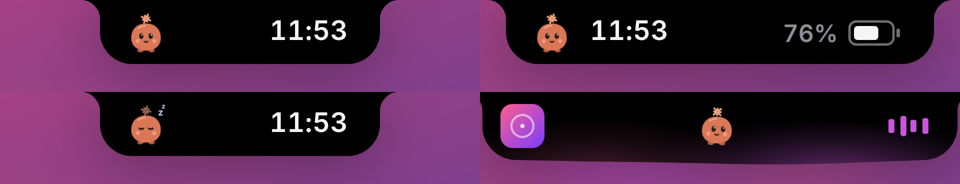
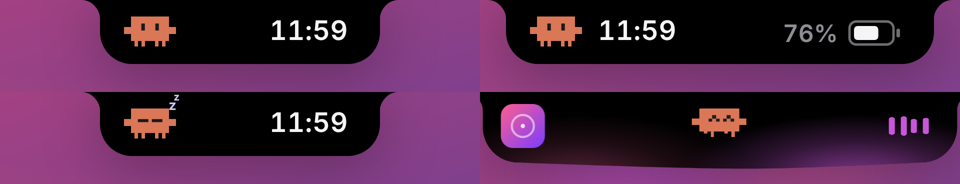
Клодик: pixel art closer to Claude Code's mascot
A terracotta block with tall eyes, little arms and four legs. While the
music plays it steps from one pair of legs to the other and shuffles
side to side instead of tilting, which pixel art does badly.

Claude-Session: https://claude.ai/code/session_014EQMbhDmCXHL3QgdrHdN9w

diff --git a/src/components/Buddy.tsx b/src/components/Buddy.tsx
@@ -1,56 +1,67 @@
-// Клодик: a tiny terracotta companion with a spark on its head (a nod to
-// Claude's starburst). It breathes and blinks on its own (CSS), looks at the
-// cursor, dances to the beat and squints happily on strong kicks (driven per
+// Клодик: a tiny pixel-art companion in the spirit of Claude Code's mascot:
+// a terracotta block with two tall eyes, little arms and four legs. It
+// breathes and blinks on its own (CSS), looks at the cursor, dances to the
+// beat, stepping its legs and squinting happily on strong kicks (driven per
 // frame by `animateBuddies`), and sleeps while you are away.
 
 import type { Liquid } from "../liquid";
 
-const RAYS = Array.from({ length: 8 }, (_, i) => (i * Math.PI) / 4);
+const C = "#d97757";
+const INK = "#1a1a1a";
 
-export function Buddy({ size = 22, sleeping = false }: { size?: number; sleeping?: boolean }) {
+/** One pixel. */
+const P = ({ x, y, w = 1, h = 1, fill = C }: { x: number; y: number; w?: number; h?: number; fill?: string }) => (
+  <rect x={x} y={y} width={w} height={h} fill={fill} />
+);
+
+export function Buddy({ size = 26, sleeping = false }: { size?: number; sleeping?: boolean }) {
   return (
-    <svg className={`buddy ${sleeping ? "sleep" : ""}`} width={size} height={size} viewBox="0 0 24 24" aria-hidden>
+    <svg
+      className={`buddy ${sleeping ? "sleep" : ""}`}
+      width={size}
+      height={(size * 11) / 15}
+      viewBox="0 0 15 11"
+      shapeRendering="crispEdges"
+      aria-hidden
+    >
       <g className="bd-sway">
+        <g className="bd-legs">
+          <g className="bd-leg-a">
+            <P x={3} y={8} h={2} />
+            <P x={9} y={8} h={2} />
+          </g>
+          <g className="bd-leg-b">
+            <P x={5} y={8} h={2} />
+            <P x={11} y={8} h={2} />
+          </g>
+        </g>
         <g className="bd-body">
-          <ellipse cx="9" cy="22.1" rx="1.7" ry="1" fill="#b45d41" />
-          <ellipse cx="15" cy="22.1" rx="1.7" ry="1" fill="#b45d41" />
-          <path d="M12 7c4.8 0 7.9 3.2 7.9 8 0 4.5-3.2 7.1-7.9 7.1S4.1 19.5 4.1 15c0-4.8 3.1-8 7.9-8Z" fill="#d97757" />
-          <path d="M8 9.6c1.1-.9 2.4-1.3 3.7-1.4" stroke="#f4b49b" strokeWidth=".9" strokeLinecap="round" fill="none" opacity=".7" />
-          <circle cx="7.6" cy="16.8" r="1.15" fill="#f6a58c" opacity=".75" />
-          <circle cx="16.4" cy="16.8" r="1.15" fill="#f6a58c" opacity=".75" />
+          <P x={2} y={1} w={11} h={7} />
+          <P x={0} y={4} w={2} h={2} />
+          <P x={13} y={4} w={2} h={2} />
           <g className="bd-gaze">
             <g className="bd-eyes">
-              <ellipse className="bd-eye" cx="9.5" cy="14" rx="1.15" ry="1.6" fill="#2a1a14" />
-              <ellipse className="bd-eye" cx="14.5" cy="14" rx="1.15" ry="1.6" fill="#2a1a14" />
-              <circle cx="9.9" cy="13.3" r=".38" fill="#fff" />
-              <circle cx="14.9" cy="13.3" r=".38" fill="#fff" />
+              <P x={5} y={3} h={2} fill={INK} />
+              <P x={9} y={3} h={2} fill={INK} />
             </g>
-            <g className="bd-happy" stroke="#2a1a14" strokeWidth=".95" strokeLinecap="round" fill="none">
-              <path d="M8.4 14.4q1.1-1.5 2.2 0" />
-              <path d="M13.4 14.4q1.1-1.5 2.2 0" />
+            <g className="bd-happy" fill={INK}>
+              <P x={4} y={4} fill={INK} />
+              <P x={5} y={3} fill={INK} />
+              <P x={6} y={4} fill={INK} />
+              <P x={8} y={4} fill={INK} />
+              <P x={9} y={3} fill={INK} />
+              <P x={10} y={4} fill={INK} />
             </g>
-            <g className="bd-closed" stroke="#2a1a14" strokeWidth=".9" strokeLinecap="round" fill="none">
-              <path d="M8.4 14.2q1.1.8 2.2 0" />
-              <path d="M13.4 14.2q1.1.8 2.2 0" />
+            <g className="bd-closed">
+              <P x={4} y={4} w={3} fill={INK} />
+              <P x={8} y={4} w={3} fill={INK} />
             </g>
-          </g>
-          <path className="bd-mouth" d="M11.1 17q.9.7 1.8 0" stroke="#2a1a14" strokeWidth=".75" strokeLinecap="round" fill="none" />
-          <g className="bd-spark" stroke="#f0a47f" strokeWidth="1.05" strokeLinecap="round">
-            {RAYS.map((a) => (
-              <line
-                key={a}
-                x1={12 + Math.cos(a) * 0.7}
-                y1={4.3 + Math.sin(a) * 0.7}
-                x2={12 + Math.cos(a) * (a % (Math.PI / 2) === 0 ? 2.5 : 1.8)}
-                y2={4.3 + Math.sin(a) * (a % (Math.PI / 2) === 0 ? 2.5 : 1.8)}
-              />
-            ))}
           </g>
         </g>
       </g>
-      <g className="bd-zz" fill="#cfd3ff" fontSize="5" fontWeight="700" fontFamily="Segoe UI, sans-serif">
-        <text x="18" y="7">z</text>
-        <text x="20.5" y="3.6" fontSize="3.6">z</text>
+      <g className="bd-zz" fill="#cfd3ff" fontSize="4" fontWeight="700" fontFamily="Segoe UI, sans-serif">
+        <text x="12.5" y="1.5">z</text>
+        <text x="14.3" y="-1" fontSize="3">z</text>
       </g>
     </svg>
   );
@@ -74,20 +85,22 @@ export function animateBuddies(L: Liquid, cursor: { x: number; y: number } | nul
       const dy = cursor.y - (r.top + r.height * 0.55);
       const len = Math.hypot(dx, dy) || 1;
       const k = Math.min(1, len / 40);
-      gx = (dx / len) * 1.9 * k;
-      gy = (dy / len) * 1.2 * k;
+      gx = (dx / len) * 0.9 * k;
+      gy = (dy / len) * 0.6 * k;
     } else if (m > 0.01) {
-      gx = Math.sin(L.t * 0.9) * 0.8 * m; // looks around, enjoying the music
+      gx = Math.sin(L.t * 0.9) * 0.6 * m; // looks around, enjoying the music
     }
-    const hop = -2.4 * beat * m;
-    const tilt = Math.sin(L.t * 2 * Math.PI * 0.55) * (5 + 6 * mid) * m;
+    const hop = -1.4 * beat * m;
+    // Pixel art does not rotate well: it shuffles side to side instead.
+    const shuffle = Math.sin(L.t * 2 * Math.PI * 0.55) * (0.5 + 0.6 * mid) * m;
     // Either open or squinting, never a mix: CSS fades between the two.
     const happy = beat * m > 0.55 ? 1 : 0;
     el.style.setProperty("--gx", gx.toFixed(2));
     el.style.setProperty("--gy", gy.toFixed(2));
     el.style.setProperty("--hop", hop.toFixed(2));
-    el.style.setProperty("--tilt", `${tilt.toFixed(2)}deg`);
+    el.style.setProperty("--sx", shuffle.toFixed(2));
     el.style.setProperty("--squash", (1 + 0.07 * beat * m).toFixed(3));
     el.classList.toggle("happy", happy === 1);
+    el.classList.toggle("dance", m > 0.5);
   });
 }

diff --git a/src/styles.css b/src/styles.css
@@ -379,24 +379,28 @@ button:active {
   --gx: 0;
   --gy: 0;
   --hop: 0;
-  --tilt: 0deg;
+  --sx: 0;
   --squash: 1;
 }
 .buddy .bd-sway {
   transform-box: view-box;
-  transform-origin: 12px 23px;
-  translate: 0 calc(var(--hop) * 1px);
-  rotate: var(--tilt);
+  transform-origin: 7.5px 10px;
+  translate: calc(var(--sx) * 1px) calc(var(--hop) * 1px);
 }
 .buddy .bd-body {
   transform-box: view-box;
-  transform-origin: 12px 23px;
+  transform-origin: 7.5px 8px;
   scale: var(--squash) calc(2 - var(--squash));
   animation: bd-breathe 3.2s ease-in-out infinite;
 }
 .buddy .bd-gaze {
   translate: calc(var(--gx) * 1px) calc(var(--gy) * 1px);
   transition: translate 0.12s ease-out;
+}
+.buddy .bd-eyes {
+  transform-box: fill-box;
+  transform-origin: center;
+  animation: bd-blink 5.3s infinite;
 }
 .buddy .bd-eyes,
 .buddy .bd-happy {
@@ -405,45 +409,30 @@ button:active {
 .buddy.happy .bd-eyes {
   opacity: 0;
 }
-.buddy .bd-eye {
-  transform-box: fill-box;
-  transform-origin: center;
-  animation: bd-blink 5.3s infinite;
-}
-.buddy .bd-eye + .bd-eye {
-  animation-delay: 0.03s;
-}
-.buddy .bd-happy {
+.buddy .bd-happy,
+.buddy .bd-closed,
+.buddy .bd-zz {
   opacity: 0;
 }
 .buddy.happy .bd-happy {
   opacity: 1;
 }
-.buddy .bd-closed,
-.buddy .bd-zz {
-  opacity: 0;
+/* Steps from one pair of legs to the other while the music plays. */
+.buddy.dance .bd-leg-a {
+  animation: bd-step 0.5s steps(1) infinite;
 }
-.buddy .bd-spark {
-  transform-box: view-box;
-  transform-origin: 12px 4.3px;
-  animation: bd-spin 14s linear infinite;
+.buddy.dance .bd-leg-b {
+  animation: bd-step 0.5s steps(1) infinite -0.25s;
 }
 
 .buddy.sleep .bd-body {
   animation-duration: 5.5s;
 }
 .buddy.sleep .bd-eyes,
-.buddy.sleep .bd-happy,
-.buddy.sleep .bd-mouth {
+.buddy.sleep .bd-happy {
   opacity: 0;
 }
-.buddy.sleep .bd-closed {
-  opacity: 1;
-}
-.buddy.sleep .bd-spark {
-  animation-duration: 40s;
-  opacity: 0.6;
-}
+.buddy.sleep .bd-closed,
 .buddy.sleep .bd-zz {
   opacity: 1;
 }
@@ -455,19 +444,20 @@ button:active {
 }
 
 @keyframes bd-breathe {
-  0%, 100% { transform: scale(1, 1); }
-  50% { transform: scale(1.035, 0.965); }
+  0%, 100% { translate: 0 0; }
+  50% { translate: 0 0.5px; }
 }
 @keyframes bd-blink {
   0%, 92%, 100% { transform: scaleY(1); }
-  94% { transform: scaleY(0.12); }
+  94% { transform: scaleY(0.15); }
   96% { transform: scaleY(1); }
 }
-@keyframes bd-spin {
-  to { rotate: 360deg; }
+@keyframes bd-step {
+  0% { translate: 0 0; }
+  50% { translate: 0 -1px; }
 }
 @keyframes bd-z {
-  0% { opacity: 0; translate: 0 2px; }
+  0% { opacity: 0; translate: 0 1.5px; }
   30% { opacity: 1; }
-  100% { opacity: 0; translate: 1.5px -2.5px; }
+  100% { opacity: 0; translate: 1px -2px; }
 }

diff --git a/README.md b/README.md
@@ -24,9 +24,10 @@
 
 ![Клодик: просто так, с батареей, спит, танцует](docs/buddy.png)
 
-Маленький терракотовый компаньон с искоркой на макушке — по мотивам Claude, нарисован с нуля.
-Дышит и моргает, следит глазами за курсором, когда тот рядом, танцует под музыку (подпрыгивает
-на бит и радостно щурится) и засыпает, если пару минут не трогать клавиатуру и мышь.
+Маленький пиксельный компаньон в духе маскота Claude Code: терракотовое тельце, глаза-столбики,
+ручки и четыре ножки. Дышит и моргает, следит глазами за курсором, когда тот рядом, танцует под
+музыку (переминается с ножки на ножку, подпрыгивает на бит и радостно щурится) и засыпает, если
+пару минут не трогать клавиатуру и мышь.
 Код — [`src/components/Buddy.tsx`](src/components/Buddy.tsx).
 
 ### Жидкий край
